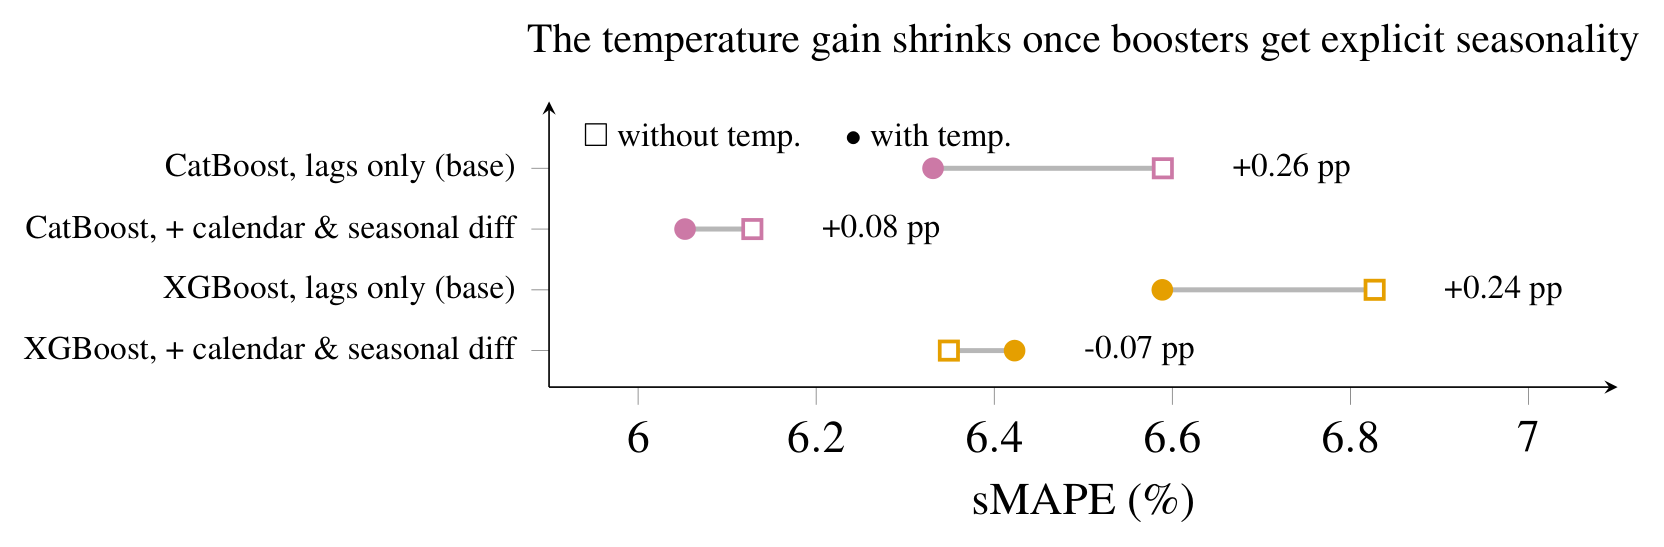
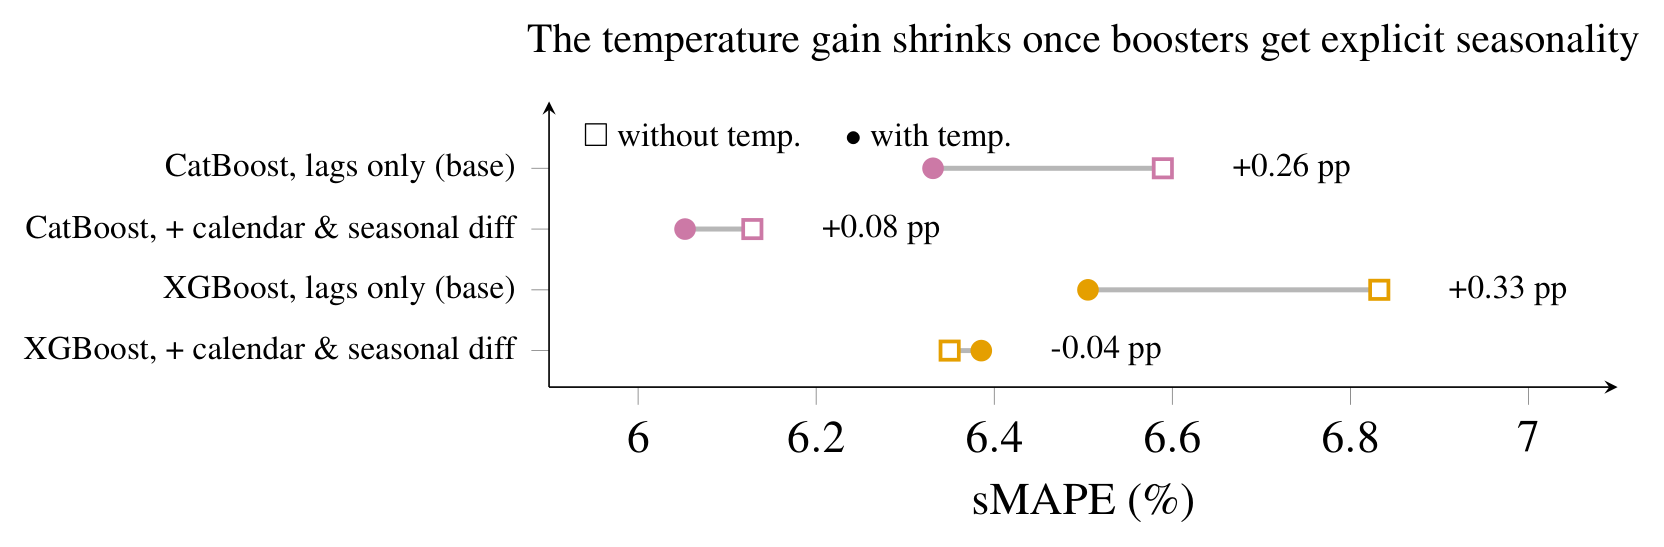
Traz as duas figuras do parecer que faltavam e acerta a tabela de temperatura
revisao_fig_optuna e revisao_fig_variantes sao geradas por build_revisao_figs.py
e nunca tinham sido rodadas aqui: existiam so como PNG solto na pasta do Drive,
sem o .tex ao lado. Sao as figuras que respondem dois dos cinco comentarios.

A revisao_tab_temp_diffcal estava inconsistente com o CSV que ela mesma le. Ao
resolver o conflito ficou o temp_melhorado.csv do upstream, e a tabela ainda
trazia os numeros derivados do outro. Regerada, o XGBoost vai de 6,83 para 6,51,
ganho +0,327, que e o que esta no CSV.

As pendencias da pagina de auditoria passam a ser conferidas no arquivo em vez de
afirmadas. Duas ja tinham caducado sem ninguem notar: a tab7_variantes hoje e
\input no manuscrito, e o main_victor.tex nao esta mais no repositorio. Agora a
pagina le o manuscript.tex, lista as tabelas geradas que ninguem inclui e mostra
as marcas \aberto.

Claude-Session: https://claude.ai/code/session_01VvC5wwC4NLouz9JzrFGTLA

diff --git a/paper/figures/revisao_fig_variantes.tex b/paper/figures/revisao_fig_variantes.tex
@@ -1,0 +1,43 @@
+% gerado por scripts/build_paper_assets.py -- nao editar a mao
+\begin{tikzpicture}
+\begin{axis}[
+  width=0.85\textwidth, height=7.2cm,
+  xlabel={sMAPE difference from seasonal naive (pp)},
+  xmin=-0.55, xmax=1.20,
+  xtick={-0.5,-0.25,0,0.25,0.5,0.75,1.0},
+  xticklabel style={/pgf/number format/fixed, /pgf/number format/precision=2},
+  ymin=0.4, ymax=12.6, ytick={12,11,10,9,8,7,6,5,4,3,2,1}, yticklabels={{CatBoost, direct strategy},{CatBoost, + seasonal difference},{CatBoost, full (cal+diff12+direct)},{CatBoost, + calendar Fourier},{CatBoost, lags only (base)},{CatBoost, + rolling stats},{XGBoost, direct strategy},{XGBoost, + seasonal difference},{XGBoost, full (cal+diff12+direct)},{XGBoost, + calendar Fourier},{XGBoost, lags only (base)},{XGBoost, + rolling stats}},
+  y tick label style={font=\scriptsize},
+  axis lines=left, tick align=outside, tick pos=left,
+  title style={align=left, font=\small},
+  title={None of the twelve feature variants beats seasonal naive at the
+    pre-declared threshold},
+]
+\draw[black!45, dashed, line width=0.7pt]
+  (axis cs:0,0.4) -- (axis cs:0,12.6);
+\addplot[draw=ccatboost, line width=2.0pt, mark=none] coordinates {(-0.4544,12) (0.0977,12)};
+\addplot[only marks, mark=*, mark size=2.2pt, draw=ccatboost, fill=ccatboost] coordinates {(-0.1772,12)};
+\addplot[draw=ccatboost, line width=2.0pt, mark=none] coordinates {(-0.3722,11) (0.2285,11)};
+\addplot[only marks, mark=*, mark size=2.2pt, draw=ccatboost, fill=ccatboost] coordinates {(-0.0662,11)};
+\addplot[draw=ccatboost, line width=2.0pt, mark=none] coordinates {(-0.4269,10) (0.1448,10)};
+\addplot[only marks, mark=*, mark size=2.2pt, draw=ccatboost, fill=ccatboost] coordinates {(-0.1342,10)};
+\addplot[draw=ccatboost, line width=2.0pt, mark=none] coordinates {(-0.3709,9) (0.3873,9)};
+\addplot[only marks, mark=*, mark size=2.2pt, draw=ccatboost, fill=ccatboost] coordinates {(0.0016,9)};
+\addplot[draw=ccatboost, line width=2.0pt, mark=none] coordinates {(-0.0561,8) (0.7159,8)};
+\addplot[only marks, mark=*, mark size=2.2pt, draw=ccatboost, fill=ccatboost] coordinates {(0.3200,8)};
+\addplot[draw=ccatboost, line width=2.0pt, mark=none] coordinates {(0.1579,7) (0.8994,7)};
+\addplot[only marks, mark=*, mark size=2.2pt, draw=ccatboost, fill=ccatboost] coordinates {(0.5162,7)};
+\addplot[draw=cxgboost, line width=2.0pt, mark=none] coordinates {(-0.1784,6) (0.4205,6)};
+\addplot[only marks, mark=*, mark size=2.2pt, draw=cxgboost, fill=cxgboost] coordinates {(0.1181,6)};
+\addplot[draw=cxgboost, line width=2.0pt, mark=none] coordinates {(-0.3073,5) (0.3169,5)};
+\addplot[only marks, mark=*, mark size=2.2pt, draw=cxgboost, fill=cxgboost] coordinates {(0.0130,5)};
+\addplot[draw=cxgboost, line width=2.0pt, mark=none] coordinates {(-0.1785,4) (0.5045,4)};
+\addplot[only marks, mark=*, mark size=2.2pt, draw=cxgboost, fill=cxgboost] coordinates {(0.1592,4)};
+\addplot[draw=cxgboost, line width=2.0pt, mark=none] coordinates {(-0.0461,3) (0.8569,3)};
+\addplot[only marks, mark=*, mark size=2.2pt, draw=cxgboost, fill=cxgboost] coordinates {(0.3899,3)};
+\addplot[draw=cxgboost, line width=2.0pt, mark=none] coordinates {(0.1441,2) (1.0114,2)};
+\addplot[only marks, mark=*, mark size=2.2pt, draw=cxgboost, fill=cxgboost] coordinates {(0.5631,2)};
+\addplot[draw=cxgboost, line width=2.0pt, mark=none] coordinates {(0.2907,1) (1.1416,1)};
+\addplot[only marks, mark=*, mark size=2.2pt, draw=cxgboost, fill=cxgboost] coordinates {(0.7068,1)};
+\end{axis}
+\end{tikzpicture}

diff --git a/scripts/revisao/build_comparacao_html.py b/scripts/revisao/build_comparacao_html.py
@@ -809,22 +809,57 @@ contra a fonte e os valores batem. O problema era de garantia: um número digita
 como avisar quando os dados por baixo dele mudam.</p>"""
 
 
+def tabelas_orfas():
+    """Tabelas que o gerador produz e que o manuscrito nao inclui.
+
+    Conferido no arquivo, nao numa lista minha: a lista envelhece no dia em que
+    alguem acrescenta um \\input e ninguem se lembra de vir aqui apagar o item.
+    """
+    tex = (PAPER / "manuscript.tex").read_text(encoding="utf-8")
+    geradas = sorted(p.stem for p in (PAPER / "tables").glob("*.tex"))
+    return [n for n in geradas if f"tables/{n}" not in tex]
+
+
+def marcas_abertas():
+    """Trechos marcados com \\aberto no manuscrito, com o inicio da nota."""
+    tex = (PAPER / "manuscript.tex").read_text(encoding="utf-8")
+    return [re.sub(r"\s+", " ", m)[:160]
+            for m in re.findall(r"\\aberto\{(.+?)\}\s*\n", tex, re.S)]
+
+
 def bloco_pendencias():
-    itens = [
+    itens = []
+
+    for nota in marcas_abertas():
+        itens.append(("Marcado em aberto no próprio texto",
+                      f"Sai em vermelho no PDF compilado, para não passar despercebido "
+                      f"na submissão. A nota diz: {nota}"))
+
+    orfas = tabelas_orfas()
+    if orfas:
+        itens.append(
+            (f"{'Tabela gerada e não incluída' if len(orfas) == 1 else 'Tabelas geradas e não incluídas'}",
+             f"{', '.join(orfas)} {'sai' if len(orfas) == 1 else 'saem'} do gerador, mas o "
+             "manuscrito não faz \\input. O resultado chega ao leitor só em prosa. Ou entra "
+             "como tabela, ou sai do gerador."))
+
+    itens.append(
         ("Qual rodada de intervalo do Prophet vale",
          "A figura de calibração do manuscrito e a tabela regerada usam rodadas "
          "diferentes. Publicadas juntas, o documento se contradiz. A saída limpa é fixar "
          "a semente da amostragem do Prophet e rodar uma vez só, o que também resolve o "
-         "problema para sempre."),
-        ("O manuscrito ainda diz que nenhum ajuste foi feito",
-         "As Limitações do main_victor.tex afirmam que nenhuma busca de hiperparâmetros "
-         "foi executada. O Optuna rodou 100 trials por modelo. A afirmação precisa cair, "
-         "e o resultado da busca precisa entrar: ele reforça a conclusão do artigo em vez "
-         "de contrariá-la."),
-        ("A tabela de variantes não tem contraparte no texto",
-         "tab7_variantes sai do gerador, mas nenhuma versão do manuscrito a inclui; as "
-         "variantes só aparecem em prosa. Ou entra como tabela, ou sai do gerador."),
-    ]
+         "problema para sempre."))
+
+    victor = EXPERIMENTOS.parent / "00_manuscrito" / "main_victor.tex"
+    if victor.exists() and "hyperparameter search was" in victor.read_text(
+            encoding="utf-8", errors="ignore"):
+        itens.append(
+            ("O intermediário do Drive ainda diz que nenhum ajuste foi feito",
+             "As Limitações do main_victor.tex afirmam que nenhuma busca de "
+             "hiperparâmetros foi executada, enquanto o Optuna rodou. O manuscript.tex do "
+             "repositório já não diz isso, então a questão é se essa versão do Drive ainda "
+             "serve para alguma coisa ou se ficou para trás."))
+
     if tabpfn_rodou() is None:
         itens.append(
             ("TabPFN",

diff --git a/paper/figures/revisao_fig_temp_diffcal.tex b/paper/figures/revisao_fig_temp_diffcal.tex
@@ -19,14 +19,14 @@
 \addplot[only marks, mark=square*, mark size=2.2pt, draw=ccatboost, fill=white, line width=0.9pt] coordinates {(6.1283,3)};
 \addplot[only marks, mark=*, mark size=2.4pt, draw=ccatboost, fill=ccatboost] coordinates {(6.0527,3)};
 \node[anchor=west, font=\scriptsize, text=black] at (axis cs:6.1883,3) {+0.08 pp};
-\addplot[draw=black!28, line width=1.2pt, mark=none] coordinates {(6.5887,2) (6.8272,2)};
-\addplot[only marks, mark=square*, mark size=2.2pt, draw=cxgboost, fill=white, line width=0.9pt] coordinates {(6.8272,2)};
-\addplot[only marks, mark=*, mark size=2.4pt, draw=cxgboost, fill=cxgboost] coordinates {(6.5887,2)};
-\node[anchor=west, font=\scriptsize, text=black] at (axis cs:6.8872,2) {+0.24 pp};
-\addplot[draw=black!28, line width=1.2pt, mark=none] coordinates {(6.4228,1) (6.3490,1)};
-\addplot[only marks, mark=square*, mark size=2.2pt, draw=cxgboost, fill=white, line width=0.9pt] coordinates {(6.3490,1)};
-\addplot[only marks, mark=*, mark size=2.4pt, draw=cxgboost, fill=cxgboost] coordinates {(6.4228,1)};
-\node[anchor=west, font=\scriptsize, text=black] at (axis cs:6.4828,1) {-0.07 pp};
+\addplot[draw=black!28, line width=1.2pt, mark=none] coordinates {(6.5052,2) (6.8324,2)};
+\addplot[only marks, mark=square*, mark size=2.2pt, draw=cxgboost, fill=white, line width=0.9pt] coordinates {(6.8324,2)};
+\addplot[only marks, mark=*, mark size=2.4pt, draw=cxgboost, fill=cxgboost] coordinates {(6.5052,2)};
+\node[anchor=west, font=\scriptsize, text=black] at (axis cs:6.8924,2) {+0.33 pp};
+\addplot[draw=black!28, line width=1.2pt, mark=none] coordinates {(6.3854,1) (6.3499,1)};
+\addplot[only marks, mark=square*, mark size=2.2pt, draw=cxgboost, fill=white, line width=0.9pt] coordinates {(6.3499,1)};
+\addplot[only marks, mark=*, mark size=2.4pt, draw=cxgboost, fill=cxgboost] coordinates {(6.3854,1)};
+\node[anchor=west, font=\scriptsize, text=black] at (axis cs:6.4454,1) {-0.04 pp};
 \node[anchor=north west, font=\scriptsize, text=black]
   at (axis cs:5.92,5.0)
   {$\square$ without temp. \quad $\bullet$ with temp.};

diff --git a/paper/figures/revisao_fig_optuna.tex b/paper/figures/revisao_fig_optuna.tex
@@ -1,0 +1,32 @@
+% gerado por scripts/build_paper_assets.py -- nao editar a mao
+\begin{tikzpicture}
+\begin{axis}[
+  width=0.82\textwidth, height=4.6cm,
+  xlabel={sMAPE (\%)}, xmin=6.1, xmax=7.2,
+  xtick={6.2,6.4,6.6,6.8,7.0,7.2},
+  xticklabel style={/pgf/number format/fixed, /pgf/number format/precision=1},
+  ymin=0.4, ymax=6.6, ytick={6,5,4,3,2,1}, yticklabels={{CatBoost, base},{CatBoost, dev},{CatBoost, oracle},{XGBoost, base},{XGBoost, dev},{XGBoost, oracle}},
+  axis lines=left, tick align=outside, tick pos=left,
+  title style={align=left, font=\small},
+  title={Honest tuning does not close the gap; the leaked ceiling barely does},
+  legend style={at={(0.98,0.98)}, anchor=north east, draw=none, fill=none,
+                 font=\scriptsize, text=black, legend columns=1},
+]
+\draw[black!45, dashed, line width=0.7pt]
+  (axis cs:6.2693,0.4) -- (axis cs:6.2693,6.6)
+  node[midway, above, sloped, font=\scriptsize, text=black]
+  {seasonal naive, 6.27\%};
+\addplot[only marks, mark=square*, mark size=2.4pt, draw=ccatboost, fill=ccatboost] coordinates {(6.5893,6)};
+\addplot[only marks, mark=*, mark size=2.4pt, draw=ccatboost, fill=ccatboost] coordinates {(6.4163,5)};
+\addplot[only marks, mark=triangle*, mark size=2.4pt, draw=ccatboost, fill=ccatboost] coordinates {(6.3471,4)};
+\addplot[only marks, mark=square*, mark size=2.4pt, draw=cxgboost, fill=cxgboost] coordinates {(6.8324,3)};
+\addplot[only marks, mark=*, mark size=2.4pt, draw=cxgboost, fill=cxgboost] coordinates {(7.0649,2)};
+\addplot[only marks, mark=triangle*, mark size=2.4pt, draw=cxgboost, fill=cxgboost] coordinates {(6.2244,1)};
+\addlegendimage{only marks, mark=square*, mark size=2.4pt, draw=black, fill=black}
+\addlegendentry{base (no tuning)}
+\addlegendimage{only marks, mark=*, mark size=2.4pt, draw=black, fill=black}
+\addlegendentry{honest tuning (dev)}
+\addlegendimage{only marks, mark=triangle*, mark size=2.8pt, draw=black, fill=black}
+\addlegendentry{leaked ceiling (oracle)}
+\end{axis}
+\end{tikzpicture}

diff --git a/paper/tables/revisao_tab_temp_diffcal.tex b/paper/tables/revisao_tab_temp_diffcal.tex
@@ -14,8 +14,8 @@ Model and feature set & Without temp. & With temp. & Gain (pp) \\
 CatBoost, lags only & 6.59 & 6.33 & $+0.258$ \\
 CatBoost, + calendar and seasonal difference & 6.13 & 6.05 & $+0.076$ \\
 \midrule
-XGBoost, lags only & 6.83 & 6.59 & $+0.238$ \\
-XGBoost, + calendar and seasonal difference & 6.35 & 6.42 & $-0.074$ \\
+XGBoost, lags only & 6.83 & 6.51 & $+0.327$ \\
+XGBoost, + calendar and seasonal difference & 6.35 & 6.39 & $-0.036$ \\
 \bottomrule
 \end{tabular}
 
@@ -25,7 +25,7 @@ XGBoost, + calendar and seasonal difference & 6.35 & 6.42 & $-0.074$ \\
 The first row of each block is the specification of Table~\ref{tab:temperatura}, lagged
 values only. The second adds Fourier calendar terms and takes the seasonal difference
 $y_t - y_{t-12}$ as the target, so the model no longer has to infer the annual cycle from
-the covariate. The gain shrinks in both models, CatBoost from $+0.258$ to $+0.076$ and XGBoost from $+0.238$ to $-0.074$ percentage
+the covariate. The gain shrinks in both models, CatBoost from $+0.258$ to $+0.076$ and XGBoost from $+0.327$ to $-0.036$ percentage
 points, and changes sign for XGBoost. The reading is that a large part of what minimum
 temperature contributed in Table~\ref{tab:temperatura} was the month of the year rather
 than the weather, and that the remaining contribution is too small to separate from noise.
